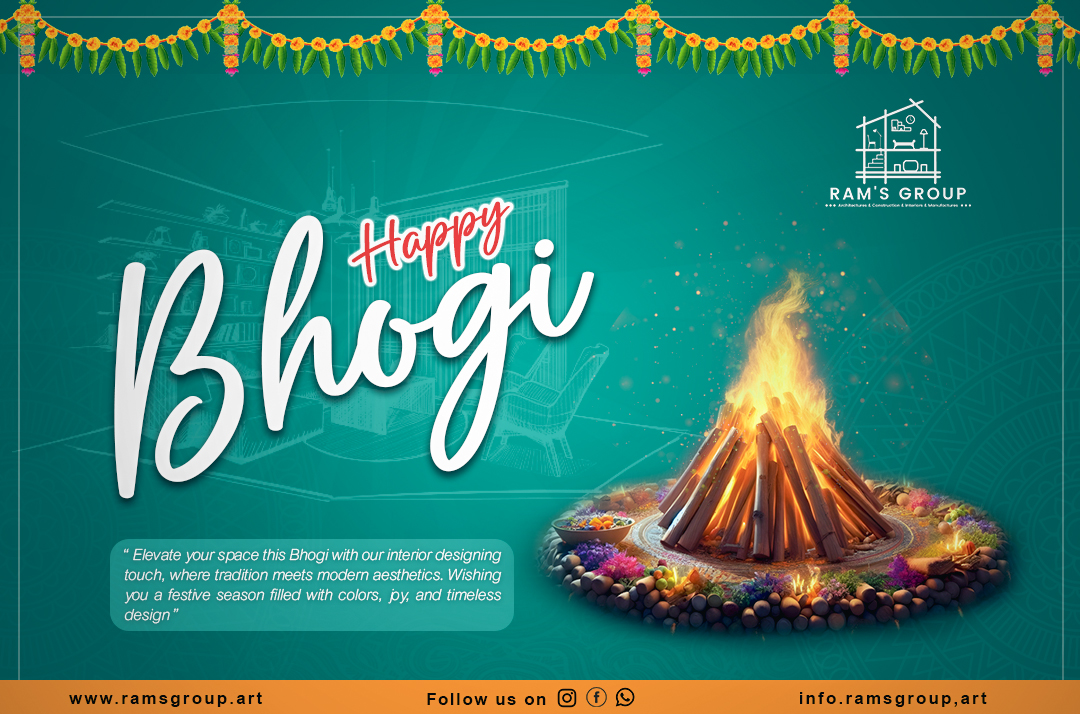
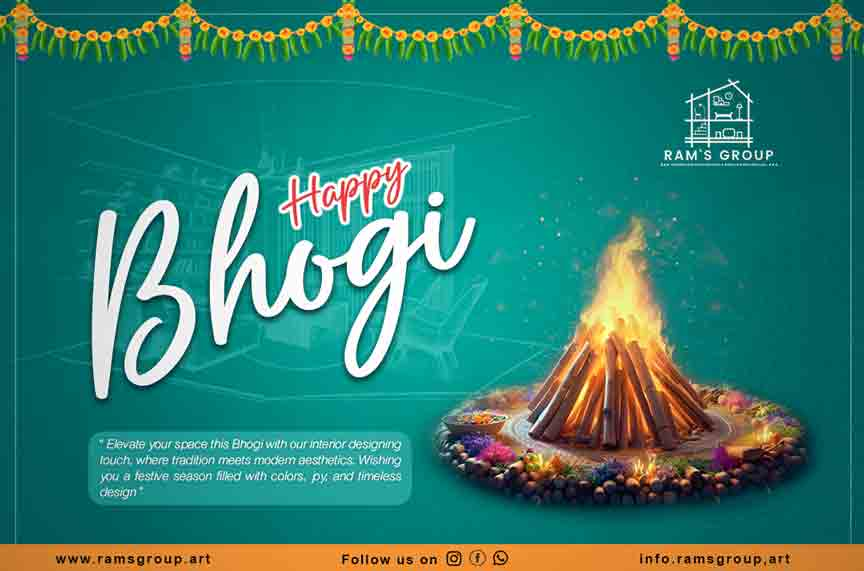
images size

diff --git a/index.html b/index.html
@@ -240,39 +240,39 @@
         <div class="row portfolio-container" data-aos="fade-up" data-aos-delay="200">
 
           <div class="col-lg-4 col-md-6 portfolio-item filter-app">
-            <img src="assets/img/portfolio/portfolio-1.jpg" class="img-fluid" alt="">
+            <img src="assets/img/portfolio/portfolio-1.jpg" class="img-fluid" alt="mahashiva rathri poster design for interior desing company">
           </div>
 
           <div class="col-lg-4 col-md-6 portfolio-item filter-web">
-            <img src="assets/img/portfolio/portfolio-2.jpg" class="img-fluid" alt="">
+            <img src="assets/img/portfolio/portfolio-2.jpg" class="img-fluid" alt="interior design modern luxury brochure in golden theme">
           </div>
 
           <div class="col-lg-4 col-md-6 portfolio-item filter-app">
-            <img src="assets/img/portfolio/portfolio-3.jpg" class="img-fluid" alt="">
+            <img src="assets/img/portfolio/portfolio-3.jpg" class="img-fluid" alt="happy new year new trending design">
             </div>
 
           <div class="col-lg-4 col-md-6 portfolio-item filter-card">
-            <img src="assets/img/portfolio/portfolio-4.jpg" class="img-fluid" alt="">
+            <img src="assets/img/portfolio/portfolio-4.jpg" class="img-fluid" alt="new luxury modern interior design bussiness card, visiting card, construction">
              </div>
 
           <div class="col-lg-4 col-md-6 portfolio-item filter-web">
-            <img src="assets/img/portfolio/portfolio-5.jpg" class="img-fluid" alt="">
+            <img src="assets/img/portfolio/portfolio-5.jpg" class="img-fluid" alt="interior design poster design">
              </div>
 
           <div class="col-lg-4 col-md-6 portfolio-item filter-app">
-            <img src="assets/img/portfolio/portfolio-6.jpg" class="img-fluid" alt="">
+            <img src="assets/img/portfolio/portfolio-6.jpg" class="img-fluid" alt="new happy bhogi wishes template design">
             </div>
 
           <div class="col-lg-4 col-md-6 portfolio-item filter-card">
-            <img src="assets/img/portfolio/portfolio-7.jpg" class="img-fluid" alt="">
+            <img src="assets/img/portfolio/portfolio-7.jpg" class="img-fluid" alt="rams group interior design bussiness card in white and gold theme">
             </div>
 
           <div class="col-lg-4 col-md-6 portfolio-item filter-card">
-            <img src="assets/img/portfolio/portfolio-8.jpg" class="img-fluid" alt="">
+            <img src="assets/img/portfolio/portfolio-8.jpg" class="img-fluid" alt="new modern orthopedic doctor visiting card">
             </div>
 
           <div class="col-lg-4 col-md-6 portfolio-item filter-web">
-            <img src="assets/img/portfolio/portfolio-9.jpg" class="img-fluid" alt="">
+            <img src="assets/img/portfolio/portfolio-9.jpg" class="img-fluid" alt="diwali crackers shop  banner and poster design">
             </div>
 
         </div>
